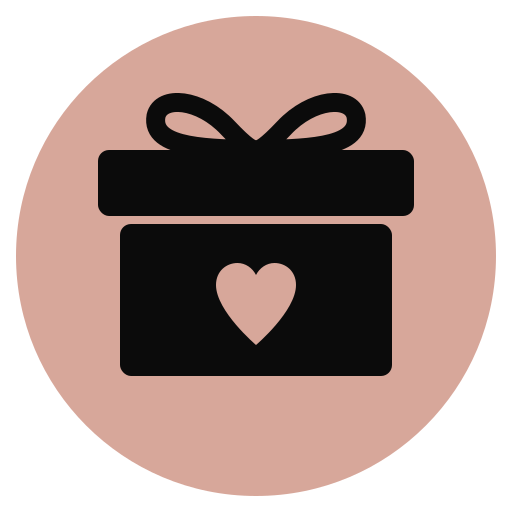
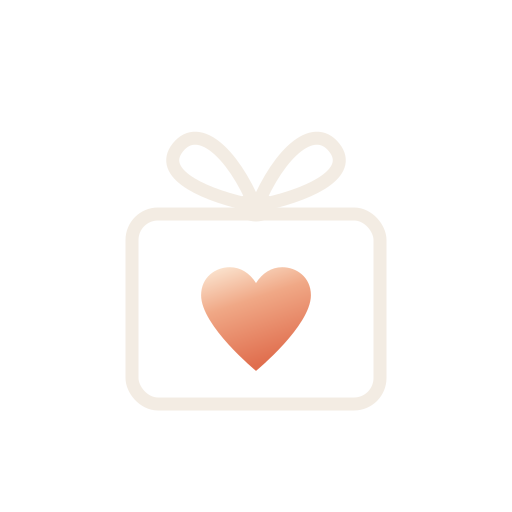
donate page added

diff --git a/components/VibratingOrb.tsx b/components/VibratingOrb.tsx
@@ -4,23 +4,28 @@ import Animated, {
   Easing,
   useAnimatedStyle,
   useSharedValue,
+  withDelay,
   withRepeat,
+  withSequence,
   withTiming,
 } from "react-native-reanimated";
-import Svg, { Defs, LinearGradient, Stop, Circle } from "react-native-svg";
+import Svg, { Circle, Defs, LinearGradient, Path, Stop } from "react-native-svg";
 
 interface Props {
   size: number;
+  thunder?: boolean; // Stormy-only: flashing lightning bolts over the orb
 }
 
 // The same gradient orb as BouncingOrb, sitting on the same base — but the ball
 // jitters in place (the sub-emotion circles' vibration) and the base pulses on a
 // steady interval instead of flashing on impact.
-export default function VibratingOrb({ size }: Props) {
+export default function VibratingOrb({ size, thunder = true }: Props) {
   // Fast jitter for the ball.
   const idle = useSharedValue(0);
   // Grow/brighten cycle for the halo.
   const halo = useSharedValue(0);
+  // Lightning flash (0 = off, 1 = full strike).
+  const bolt = useSharedValue(0);
 
   useEffect(() => {
     idle.value = withRepeat(
@@ -32,6 +37,18 @@ export default function VibratingOrb({ size }: Props) {
       withTiming(1, { duration: 1400, easing: Easing.inOut(Easing.quad) }),
       -1,
       true,
+    );
+    // Thunder: quick double-flicker, then hold dark for a beat, on a loop.
+    bolt.value = withRepeat(
+      withSequence(
+        withTiming(1, { duration: 55 }),
+        withTiming(0.25, { duration: 70 }),
+        withTiming(1, { duration: 55 }),
+        withTiming(0, { duration: 130 }),
+        withDelay(1700, withTiming(0, { duration: 0 })),
+      ),
+      -1,
+      false,
     );
   }, []);
 
@@ -67,6 +84,16 @@ export default function VibratingOrb({ size }: Props) {
     opacity: 0.5 * (1 - Math.abs(2 * halo.value - 1)), // 0.0 small → 0.5 mid → 0.0 fully grown
     transform: [{ scale: 1 + halo.value * 0.45 }],
   }));
+
+  // Lightning bolts: fade+pop in on each flash, sit at the upper-right of the orb.
+  const boltStyle = useAnimatedStyle(() => ({
+    opacity: bolt.value,
+    transform: [{ scale: 0.86 + bolt.value * 0.2 }],
+  }));
+  const boltGlyph = size * 0.14; // one bolt
+  // Anchor the pair up-and-right of the ball (which sits at ballBottom, centered).
+  const boltBottom = ballBottom + ball * 0.55;
+  const boltLeft = size / 2 + ball * 0.15;
 
   return (
     <View style={{ width: size, height: size }}>
@@ -117,6 +144,42 @@ export default function VibratingOrb({ size }: Props) {
           <Circle cx={50} cy={50} r={48} fill="url(#orbGradVibe)" />
         </Svg>
       </Animated.View>
+
+      {/* Thunder — two orange bolts flashing over the upper-right of the orb */}
+      {thunder && (
+        <Animated.View
+          style={[
+            {
+              position: "absolute",
+              bottom: boltBottom,
+              left: boltLeft,
+              width: boltGlyph * 1.7,
+              height: boltGlyph * 1.7,
+            },
+            boltStyle,
+          ]}
+          pointerEvents="none"
+        >
+          {/* back bolt (lower/right, slightly smaller) */}
+          <Svg
+            width={boltGlyph * 0.9}
+            height={boltGlyph * 0.9}
+            viewBox="0 0 24 24"
+            style={{ position: "absolute", right: 0, bottom: 0 }}
+          >
+            <Path d="M13 1 L4 14 L10 14 L8 23 L19 9 L12 9 Z" fill="#F0562B" />
+          </Svg>
+          {/* front bolt (upper/left) */}
+          <Svg
+            width={boltGlyph}
+            height={boltGlyph}
+            viewBox="0 0 24 24"
+            style={{ position: "absolute", left: 0, top: 0 }}
+          >
+            <Path d="M13 1 L4 14 L10 14 L8 23 L19 9 L12 9 Z" fill="#FF6A3D" />
+          </Svg>
+        </Animated.View>
+      )}
     </View>
   );
 }

diff --git a/app/settings/index.tsx b/app/settings/index.tsx
@@ -1,5 +1,6 @@
 import { router } from "expo-router";
-import { Platform, ScrollView, StyleSheet, Text, TouchableOpacity, View } from "react-native";
+import { useState } from "react";
+import { Image, Platform, ScrollView, StyleSheet, Text, TouchableOpacity, View } from "react-native";
 import { useSafeAreaInsets } from "react-native-safe-area-context";
 import Svg, { Circle, Path, Rect } from "react-native-svg";
 
@@ -117,11 +118,17 @@ const ITEMS: Item[] = [
 
 export default function SettingsScreen() {
   const insets = useSafeAreaInsets();
+  // Not persisted — Hide only dismisses for now; the banner returns on reload.
+  const [bannerHidden, setBannerHidden] = useState(false);
+  const hideBanner = () => setBannerHidden(true);
 
   return (
     <View style={styles.container}>
       <ScrollView
-        contentContainerStyle={{ paddingTop: insets.top + 8, paddingBottom: insets.bottom + 40 }}
+        contentContainerStyle={{
+          paddingTop: insets.top + 8,
+          paddingBottom: insets.bottom + (bannerHidden ? 40 : 190),
+        }}
         showsVerticalScrollIndicator={false}
       >
         {/* Close */}
@@ -157,6 +164,36 @@ export default function SettingsScreen() {
           })}
         </View>
       </ScrollView>
+
+      {/* Donation banner pinned to the bottom (dismissible). */}
+      {!bannerHidden && (
+        <View style={[styles.banner, { paddingBottom: insets.bottom + 14 }]}>
+          <View style={styles.bannerRow}>
+            <View style={styles.bannerLeft}>
+              <Text style={styles.bannerText}>
+                Support our mission — KnockKnock is made possible by donations
+              </Text>
+              <View style={styles.bannerActions}>
+                <TouchableOpacity
+                  style={styles.bannerDonate}
+                  activeOpacity={0.85}
+                  onPress={() => router.push("/settings/donate")}
+                >
+                  <Text style={styles.bannerDonateText}>Donate</Text>
+                </TouchableOpacity>
+                <TouchableOpacity onPress={hideBanner} activeOpacity={0.7} hitSlop={10}>
+                  <Text style={styles.bannerHide}>Hide</Text>
+                </TouchableOpacity>
+              </View>
+            </View>
+            <Image
+              source={require("@/assets/images/donate-gift.png")}
+              style={styles.bannerArt}
+              resizeMode="contain"
+            />
+          </View>
+        </View>
+      )}
     </View>
   );
 }
@@ -190,4 +227,37 @@ const styles = StyleSheet.create({
   },
   rowIcon: { width: 30, alignItems: "center", marginRight: 14 },
   rowLabel: { flex: 1, color: "#FFFFFF", fontSize: 17, fontFamily: "Jost_400Regular" },
+  banner: {
+    position: "absolute",
+    left: 12,
+    right: 12,
+    bottom: 12,
+    backgroundColor: "#1A1A1A",
+    borderRadius: 22,
+    paddingHorizontal: 18,
+    paddingTop: 18,
+  },
+  bannerRow: { flexDirection: "row", alignItems: "center" },
+  bannerLeft: { flex: 1, paddingRight: 10 },
+  bannerText: {
+    color: "#FFFFFF",
+    fontSize: 16,
+    lineHeight: 22,
+    fontFamily: "Jost_400Regular",
+  },
+  bannerActions: { flexDirection: "row", alignItems: "center", marginTop: 16 },
+  bannerDonate: {
+    backgroundColor: "#FFFFFF",
+    borderRadius: 20,
+    paddingVertical: 9,
+    paddingHorizontal: 22,
+  },
+  bannerDonateText: { color: "#111111", fontSize: 15, fontFamily: "Jost_600SemiBold" },
+  bannerHide: {
+    color: "#9A938B",
+    fontSize: 15,
+    fontFamily: "Jost_400Regular",
+    marginLeft: 20,
+  },
+  bannerArt: { width: 96, height: 96 },
 });

diff --git a/app/settings/donate.tsx b/app/settings/donate.tsx
@@ -15,8 +15,8 @@ import Svg, { Path } from "react-native-svg";
 
 const SERIF = Platform.select({ ios: "Georgia", default: "serif" });
 
-// Buy Me a Coffee page. TODO: replace with your real BMC URL once created.
-const DONATE_URL = "https://buymeacoffee.com/yehsun";
+// Buy Me a Coffee page (Yehsun Kang).
+const DONATE_URL = "https://buymeacoffee.com/katekang";
 
 const AMOUNTS = [25, 75, 150, 300];
 
@@ -24,10 +24,11 @@ export default function DonateScreen() {
   const insets = useSafeAreaInsets();
   const [selected, setSelected] = useState<number | null>(null);
 
-  const openDonate = (amount?: number) => {
-    // Buy Me a Coffee opens in the browser, where Apple Pay is offered.
-    const url = amount ? `${DONATE_URL}?amount=${amount}` : DONATE_URL;
-    Linking.openURL(url).catch(() => {});
+  const openDonate = () => {
+    // Buy Me a Coffee opens in the browser, where the supporter picks the
+    // amount and can pay with Apple Pay. (BMC has no reliable preset-amount
+    // URL param, so the in-app amounts are suggestions only.)
+    Linking.openURL(DONATE_URL).catch(() => {});
   };
 
   return (
@@ -84,14 +85,8 @@ export default function DonateScreen() {
 
       {/* Sticky donate button */}
       <View style={[styles.footer, { paddingBottom: insets.bottom + 14 }]}>
-        <TouchableOpacity
-          style={styles.donateBtn}
-          activeOpacity={0.85}
-          onPress={() => openDonate(selected ?? undefined)}
-        >
-          <Text style={styles.donateText}>
-            Donate{selected ? ` $${selected}` : ""} with Buy Me a Coffee
-          </Text>
+        <TouchableOpacity style={styles.donateBtn} activeOpacity={0.85} onPress={openDonate}>
+          <Text style={styles.donateText}>Donate with Buy Me a Coffee</Text>
         </TouchableOpacity>
       </View>
     </View>

diff --git a/components/RollingOrb.tsx b/components/RollingOrb.tsx
@@ -8,7 +8,7 @@ import Animated, {
   withSequence,
   withTiming,
 } from "react-native-reanimated";
-import Svg, { Defs, LinearGradient, Stop, Circle } from "react-native-svg";
+import Svg, { Circle, Defs, Line, LinearGradient, Stop } from "react-native-svg";
 
 interface Props {
   size: number;
@@ -17,7 +17,20 @@ interface Props {
   fadeBall?: boolean;
   // false = stay in place (bounce only, no horizontal roll).
   rolling?: boolean;
+  // Rain-only: diagonal streaks that fade in and out over the orb.
+  rain?: boolean;
 }
+
+// Diagonal rain streaks (viewBox 0..40), staggered "/" dashes.
+const RAIN_STREAKS: [number, number, number, number][] = [
+  [7, 21, 12, 12],
+  [11, 15, 15, 9],
+  [14, 25, 19, 16],
+  [18, 18, 22, 11],
+  [22, 27, 26, 19],
+  [25, 16, 29, 9],
+  [30, 22, 34, 14],
+];
 
 // The same gradient orb, slowly rolling left → right and back, repeating. The
 // rotation is tied to the horizontal travel so it reads as a true roll.
